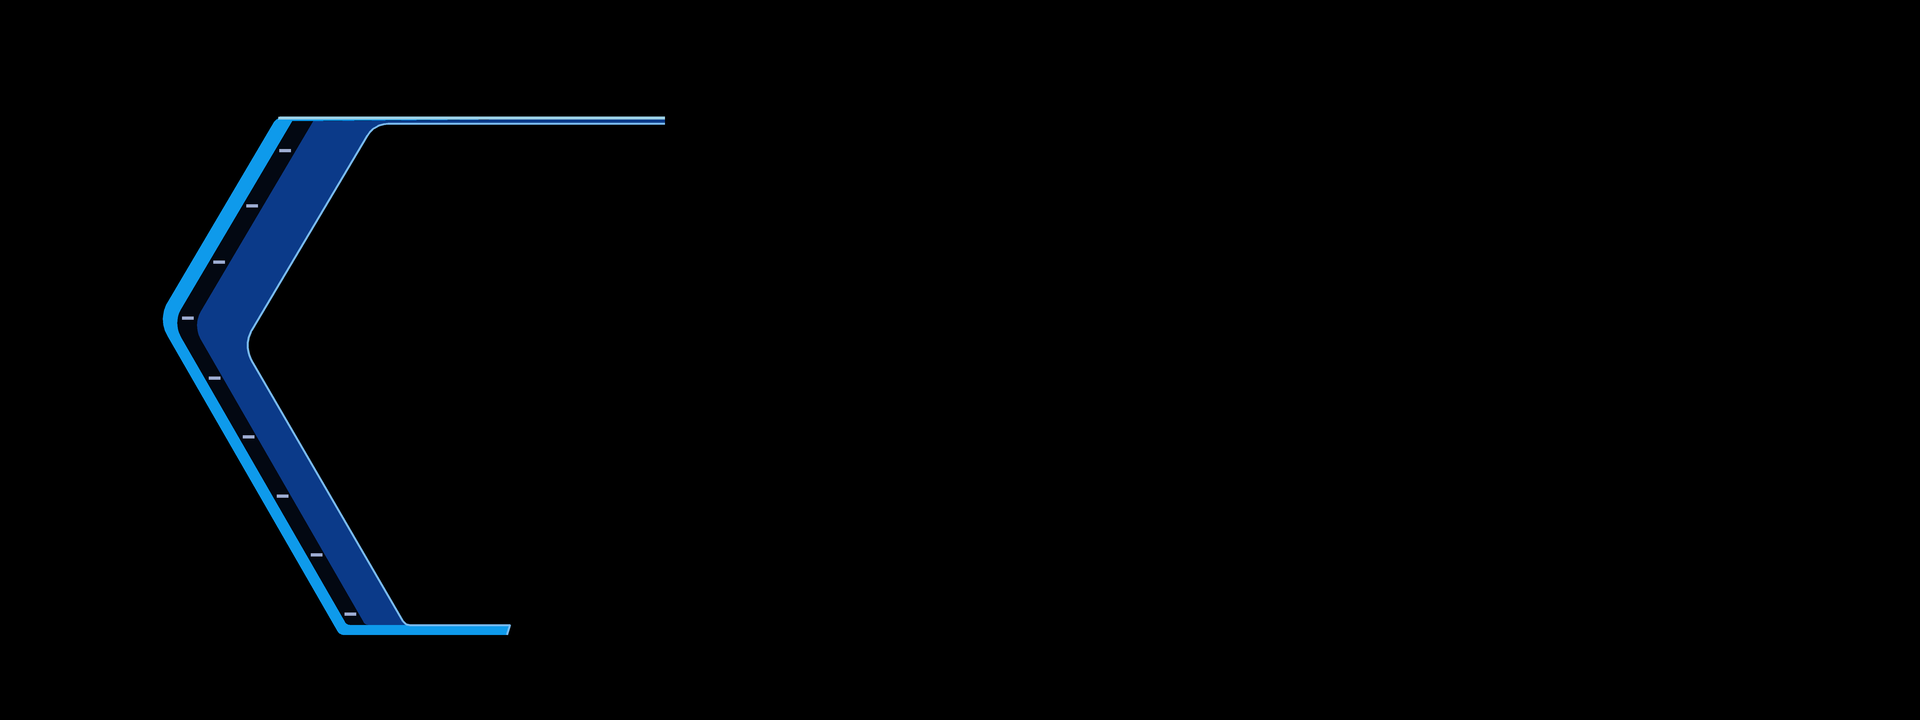
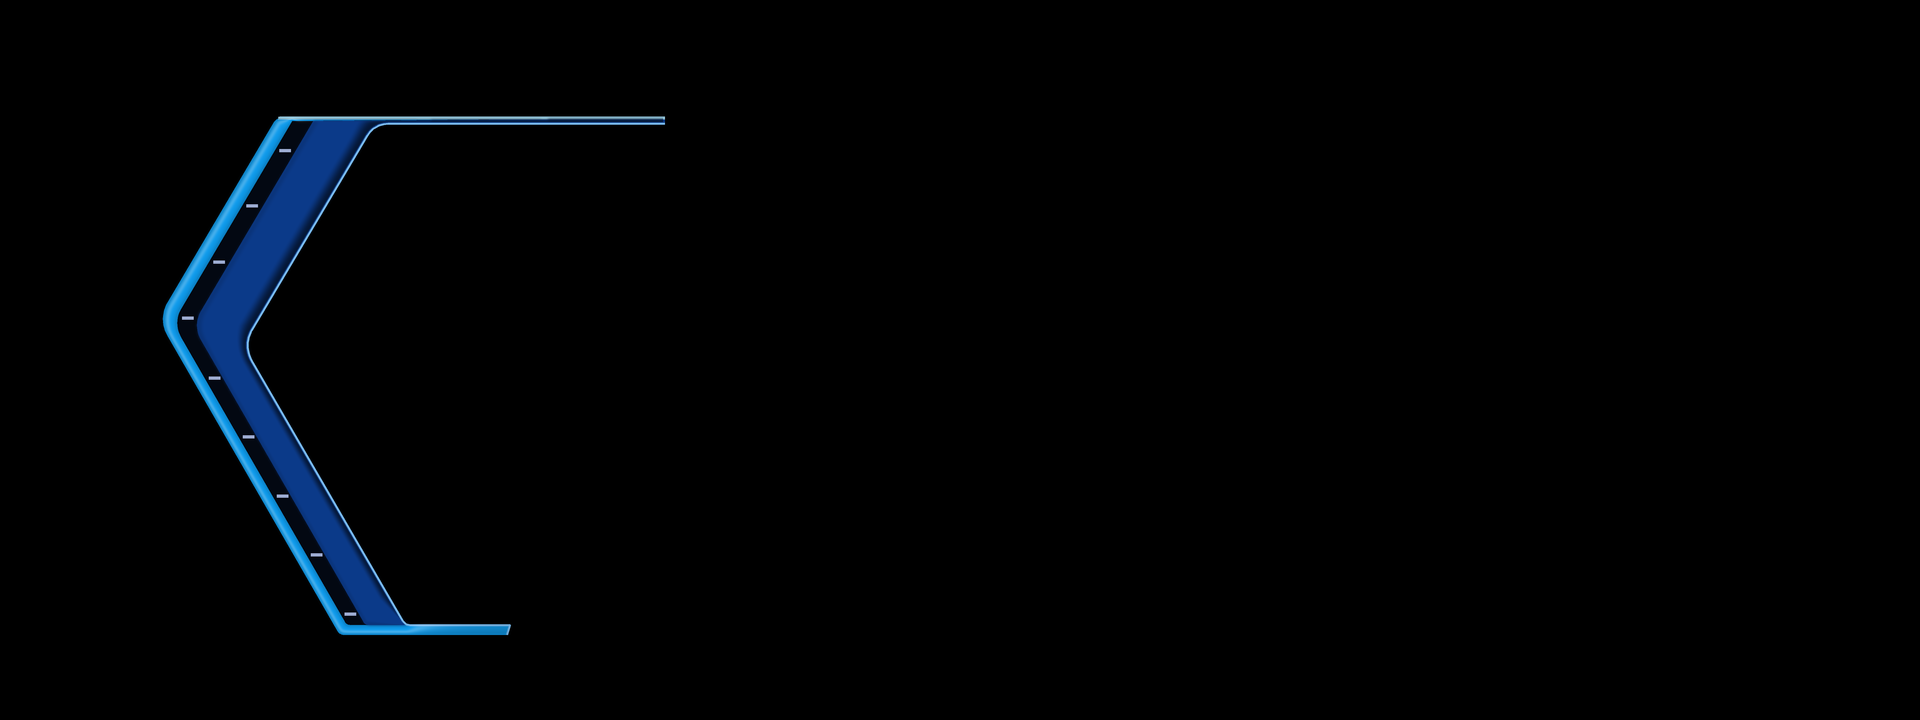
cluster: ID8-A left bracket: 3D look (stripe as a glossy tube, band as a hollow, feathered edges)
The brightness profile across each zone comes from every pixel's distances to the zone's two
edges, so it follows the bracket's shape; its numbers are in config.json (bevel).

Claude-Session: https://claude.ai/code/session_01APCM7bQyWwkFmahRh5zUds

diff --git a/cluster/tools/gen_static.py b/cluster/tools/gen_static.py
@@ -14,7 +14,8 @@ import json
 import math
 import os
 
-from PIL import Image, ImageDraw
+import numpy as np
+from PIL import Image, ImageDraw, ImageFilter
 
 ROOT = os.path.dirname(os.path.dirname(os.path.abspath(__file__)))
 SS = 4                      # supersampling: drawn 4x larger, scaled down
@@ -103,6 +104,67 @@ def bracket_zones(cfg, el):
     return zone('inner'), zone('band'), zone('parallel')
 
 
+def poly_distance(poly, X, Y):
+    """Distance (px) from every point of the grids X, Y to the polyline."""
+    best = np.full(X.shape, 1e9)
+    for (ax, ay), (bx, by) in zip(poly[:-1], poly[1:]):
+        ex, ey = bx - ax, by - ay
+        L2 = ex * ex + ey * ey or 1e-9
+        h = np.clip(((X - ax) * ex + (Y - ay) * ey) / L2, 0, 1)
+        best = np.minimum(best, np.hypot(X - ax - ex * h, Y - ay - ey * h))
+    return best
+
+
+def smooth(e0, e1, x):
+    t = np.clip((x - e0) / (e1 - e0), 0, 1)
+    return t * t * (3 - 2 * t)
+
+
+def bevel(img, cfg, el):
+    """The 3D look on a bracket already filled flat (img: RGBA at grid size): a brightness profile across the stripe
+    (a tube with a glossy highlight) and across the band (a hollow), from each pixel's distances to the zone's two
+    edges, as config 'bevel' says."""
+    bv = el.get('bevel')
+    if not bv:
+        return img
+    P = lambda k: fillet_polyline(to_px(cfg, el[k]))
+    out, par, band, inner = P('outline'), P('parallel'), P('band'), P('inner')
+    xs = [p[0] for p in out + inner]
+    ys = [p[1] for p in out + inner]
+    x0, x1, y0, y1 = int(min(xs)) - 2, int(max(xs)) + 3, int(min(ys)) - 2, int(max(ys)) + 3
+    X, Y = np.meshgrid(np.arange(x0, x1) + 0.5, np.arange(y0, y1) + 0.5)
+    whole, to_band, to_par = bracket_zones(cfg, el)
+
+    def mask(poly):
+        m = Image.new('L', (x1 - x0, y1 - y0), 0)
+        ImageDraw.Draw(m).polygon([(x - x0, y - y0) for x, y in poly], fill=255)
+        return np.asarray(m.filter(ImageFilter.GaussianBlur(bv.get('soft', 1.0)))) / 255.0
+
+    m_par, m_band = mask(to_par), mask(to_band)
+    m_fill = mask(whole) - m_band
+    rgb = np.asarray(img, np.float32)[y0:y1, x0:x1, :3].copy()
+    # the stripe: a tube, darker at both rims, with a glossy highlight
+    st = bv['stripe']
+    d_o, d_p = poly_distance(out, X, Y), poly_distance(par, X, Y)
+    t = d_o / (d_o + d_p + 1e-6)
+    f = st['edge'] + (1 - st['edge']) * np.sin(np.pi * np.clip(t, 0, 1)) ** 0.6
+    g = st['gloss'] * np.exp(-((t - st['gloss_at']) / st['gloss_w']) ** 2)
+    shaded = np.clip(rgb * f[..., None] + (255 - rgb * f[..., None]) * g[..., None], 0, 255)
+    rgb = rgb + (shaded - rgb) * np.clip(m_par, 0, 1)[..., None]
+    # the band: a hollow, rising from the gap, a touch darker before the inner line
+    bd = bv['band']
+    d_b, d_i = poly_distance(band, X, Y), poly_distance(inner, X, Y)
+    t = d_b / (d_b + d_i + 1e-6)
+    f = bd['edge'] + (1 - bd['edge']) * smooth(0, bd['rise'], t)
+    f = f - (1 - bd['inner']) * smooth(0.72, 0.95, t)
+    col = np.array(el['colors']['band'], np.float32)
+    keep_line = smooth(1.2, 2.4, d_i)                                   # the inner line stays as drawn
+    rgb = rgb + (col * f[..., None] - rgb) * (np.clip(m_fill, 0, 1) * keep_line)[..., None]
+    arr = np.asarray(img).copy()
+    arr[y0:y1, x0:x1, :3] = np.clip(rgb + 0.5, 0, 255).astype(np.uint8)
+    return Image.fromarray(arr, 'RGBA')
+
+
 def build_static(cfg):
     """The static layer, RGBA at grid size: each bracket filled zone by zone (band, gap, stripe), then its lines and marks."""
     W, H = cfg['grid']
@@ -123,7 +185,11 @@ def build_static(cfg):
         d.line(sc(fillet_polyline(to_px(cfg, el['inner']))[1:]), fill=tuple(col['inner_line']), width=2 * SS, joint='curve')
         for x0, y0, x1, y1 in tick_rects(cfg):
             d.rectangle([x0 * SS, y0 * SS, x1 * SS, y1 * SS], fill=tuple(col['tick']))
-    return img.resize((W, H), Image.LANCZOS)
+    img = img.resize((W, H), Image.LANCZOS)
+    for el in cfg['elements'].values():
+        if el.get('colors') and 'band' in el:
+            img = bevel(img, cfg, el)
+    return img
 
 
 def grid_overlay(img, step=50):
